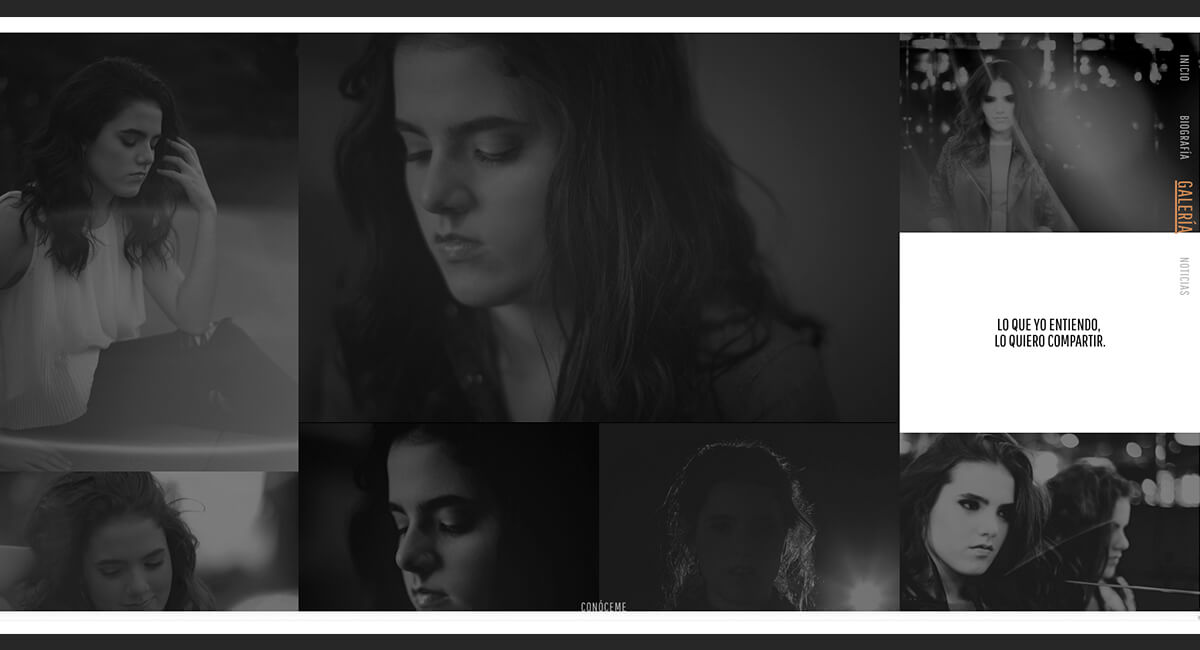
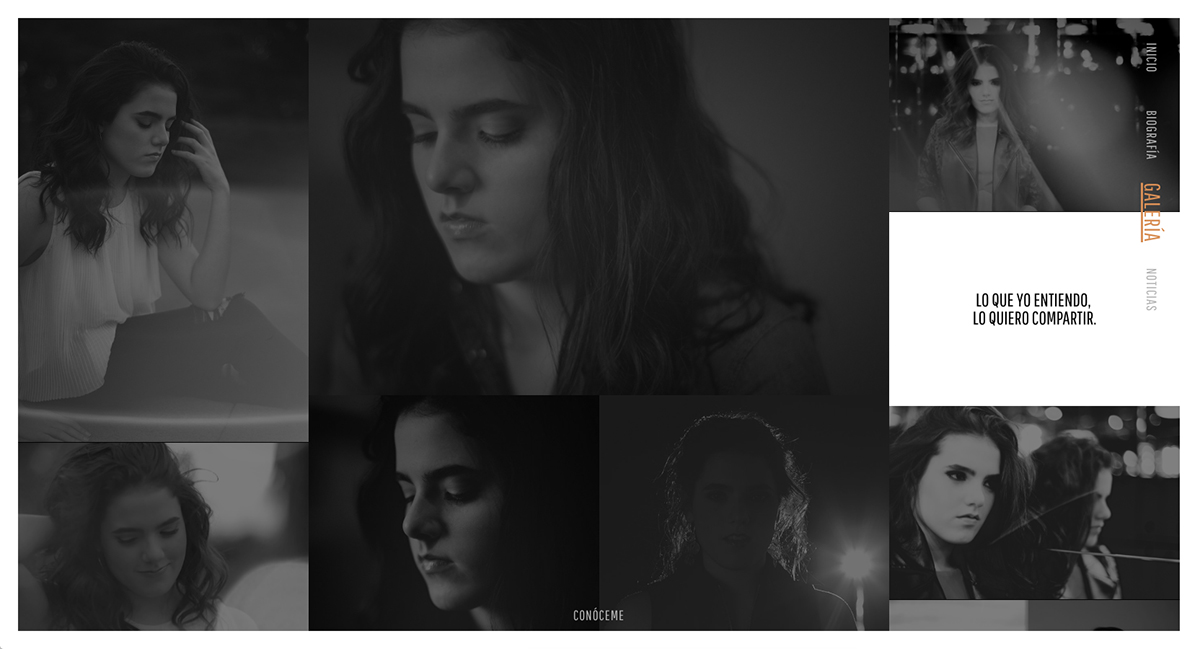
Camila images replaced

diff --git a/index.html b/index.html
@@ -3,7 +3,7 @@
     <head>
         <meta charset="utf-8">
         <meta http-equiv="x-ua-compatible" content="ie=edge">
-        <title>For IA | Our Services</title>
+        <title>For IA | Zero Portfolio</title>
         <meta name="description" content="">
         <meta name="viewport" content="width=device-width, initial-scale=1">
 
